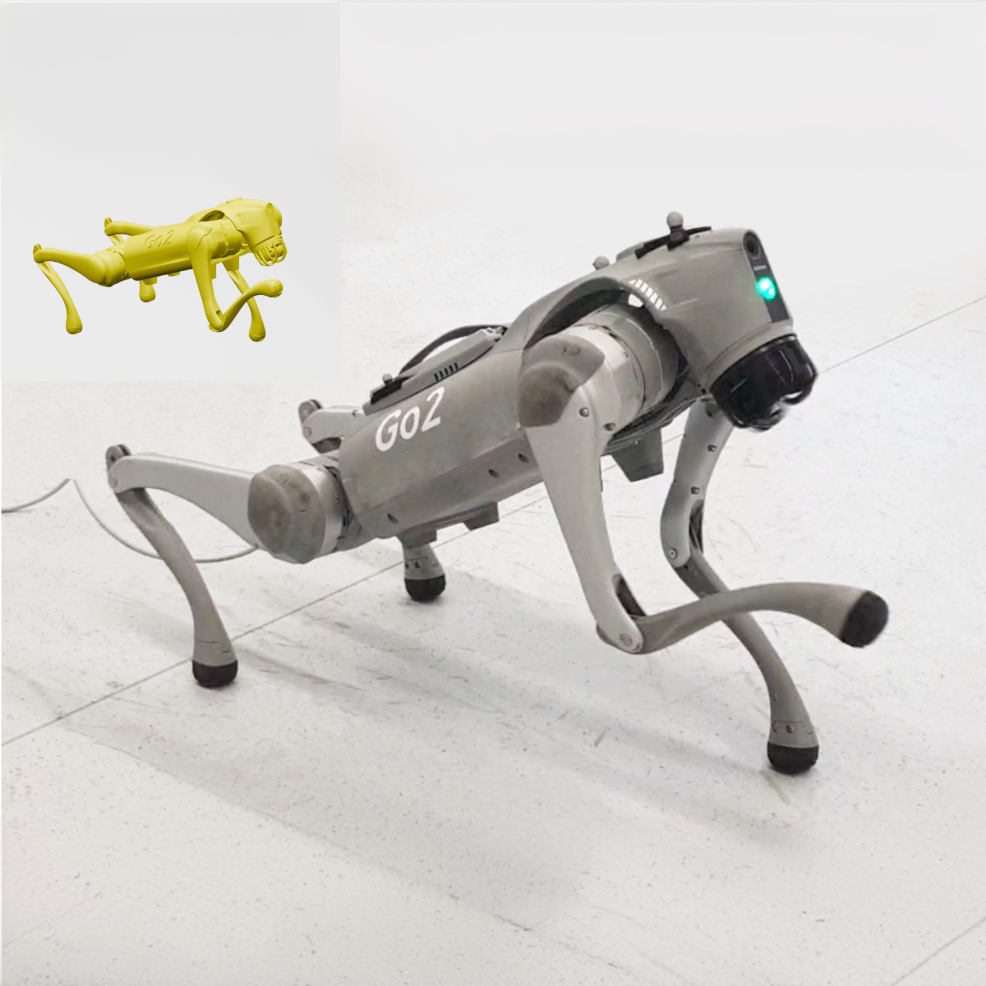
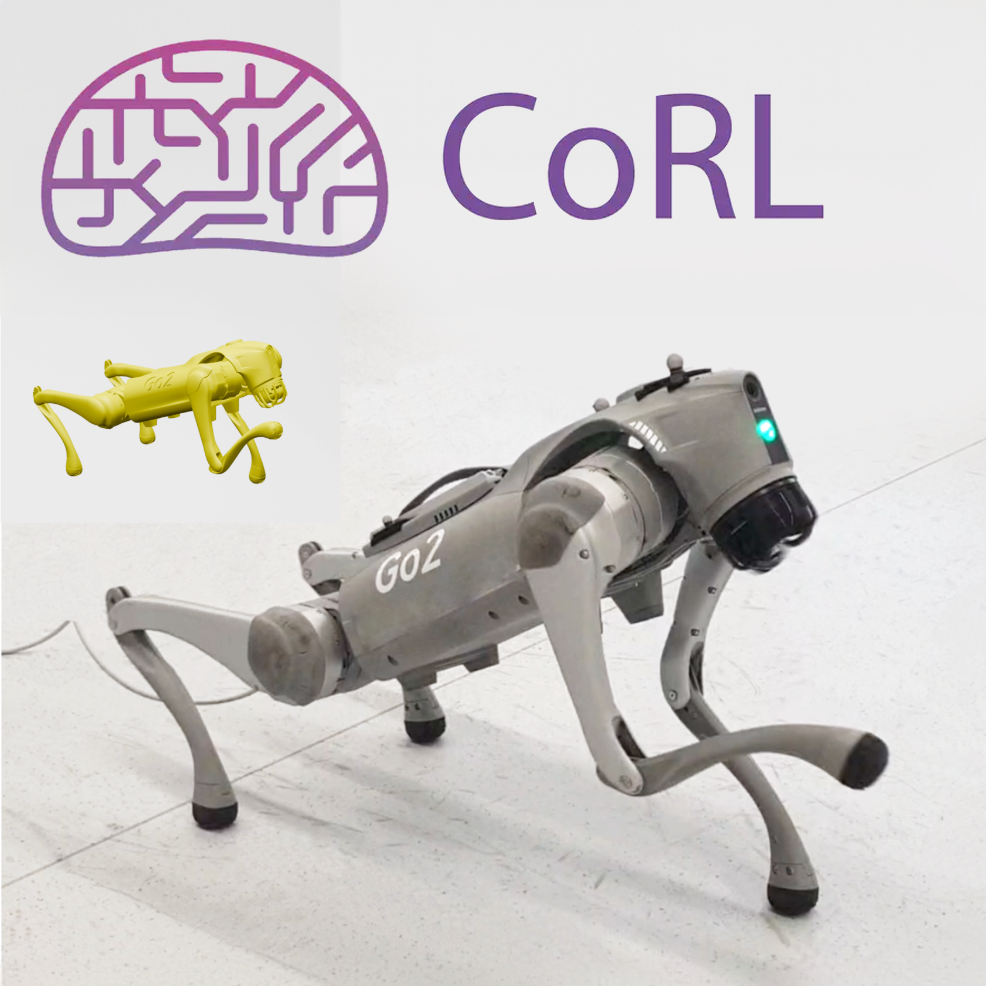
corl accepted

diff --git a/_news/robotkeyframing.md b/_news/robotkeyframing.md
@@ -1,0 +1,8 @@
+---
+layout: post
+date: 2024-09-04 10:00:00-0400
+inline: true
+related_posts: false
+---
+
+📑 I am happy to share our recent work from [Computational Robotics Lab](http://crl.ethz.ch/), *RobotKeyframing: Learning Locomotion with High-Level Objectives via Mixture of Dense and Sparse Rewards* has been published in the Proceedings of 2024 Conference on Robot Learning (CoRL 2024).
